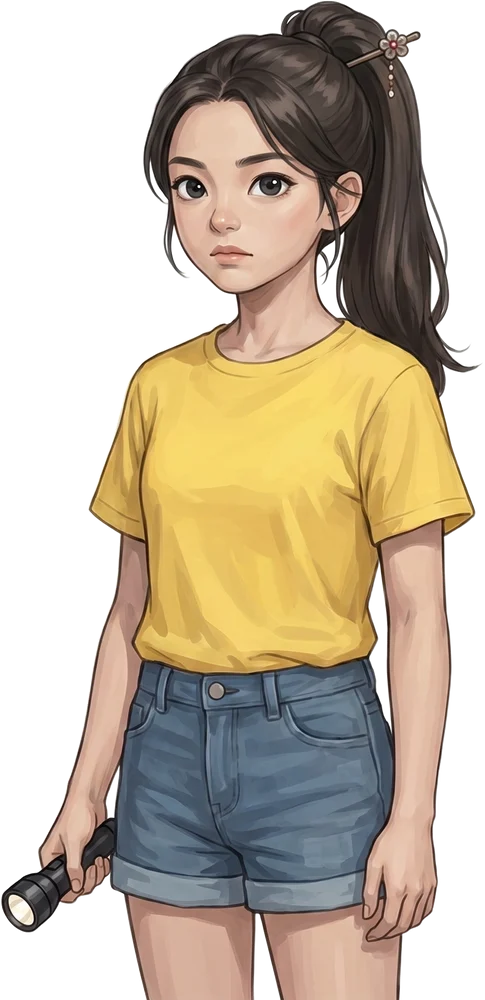
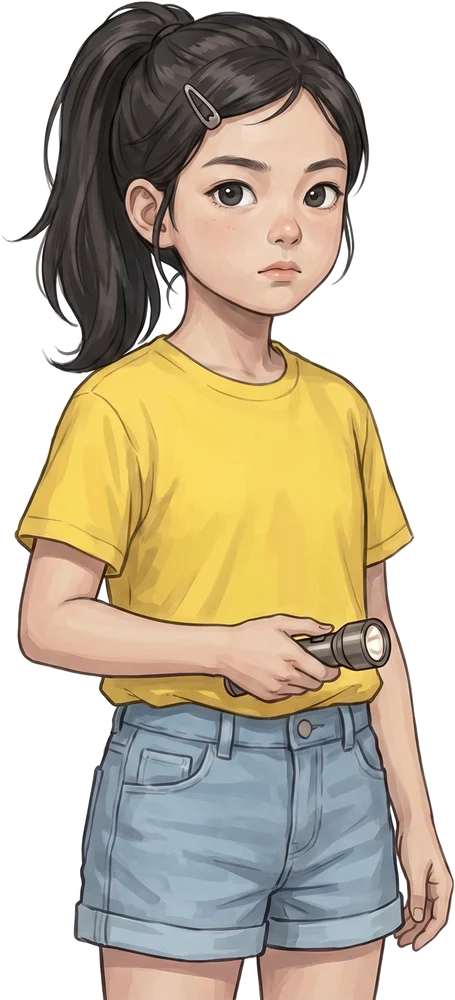
독립 검증에서 확인된 결함을 수정한다
직접 재현해 사실로 확인한 지적만 반영:

- 수첩 여백으로 아래 화면(방 카드·허브 버튼)이 클릭되던 문제 —
  전면 베일(#nbVeil)로 차단하고, 베일 클릭 시 수첩을 닫는다.
  수첩 상단도 토스트 밴드(y 38..85) 아래(14%)로 내려 제목 가림 해소
- 잠금 스팟 토스트의 조사 오류("부탄캔를") — 받침 유무로 을/를 선택
- 심문 메뉴: [인물 심문] 재클릭으로 조사 화면 복귀 토글, 비활성
  추리 버튼에 남던 "준비 완료!" 라벨 교체, 안내 토스트 문구 정정
- 205호 경보기: 그림(벽걸이)과 어긋나던 천장형 서술을 벽 설치
  규격(천장에서 15cm)+천장형(벽에서 30cm) 병기로 정정, 스팟 라벨 수정
- 화로터 폐캔·주방 신청서 단서 문구를 실제 그림과 일치하게 조정
- 원천 자료에 없는 단정 완화: "가장 흔한 원인"·"5대 금지 1호" →
  "5대 금지의 첫 번째 항목", 찬물 위험 단정 → 접근 금지·거리 확보
- 주인공 호칭 통일(탐정) — 공적 신분인 '가스안전 조사관 정확한'과 구분
- 김초롱(12) 초상을 아동 비율로 재생성해 교체 (기존은 10대 중반으로 보임)
- 타이틀 영문 부제 가독성(text-shadow), 동적 카드 img alt 속성 추가
- README 5대 금지 열거를 원천 자료와 일치하게 수정,
  CLAUDE.md 버튼 인벤토리 최신화(8컨테이너 12개)

전체 플레이 자동 검증 재통과, 지적 4건 재현 스크립트로 수정 확인.

Claude-Session: https://claude.ai/code/session_01Fh2RqJgq2fRfiCvRSuSJA6

diff --git a/index.html b/index.html
@@ -135,7 +135,8 @@
     -webkit-background-clip:text; background-clip:text; color:transparent;
     filter:drop-shadow(0 0 18px rgba(140,180,255,.32)) drop-shadow(0 3px 8px #000); }
   .title-inner h2 { font-family:var(--ff-body); font-weight:400; color:#b3a894;
-    letter-spacing:.5em; font-size:.72rem; padding-left:.5em; }
+    letter-spacing:.5em; font-size:.72rem; padding-left:.5em;
+    text-shadow:0 2px 8px rgba(0,0,0,.75); }
   .title-bottom { margin-top:auto; margin-bottom:6%; display:flex; flex-direction:column;
     align-items:center; gap:10px; }
   .ver { position:absolute; right:16px; bottom:12px; z-index:3;
@@ -372,7 +373,11 @@
   #deduceProg .prog-candles .ico { width:12px; height:12px; }
 
   /* ---------- 수첩 ---------- */
-  #notebook { position:absolute; inset:6% 10%; z-index:20; background:var(--leather);
+  /* 수첩 백드롭 — 아래 화면의 노출된 여백(방 카드 가장자리·하단 버튼)이 클릭되는 것을 막고,
+     누르면 수첩이 닫힌다. z-index 19 = 수첩(20) 바로 아래, 화면 내용 위. */
+  #nbVeil { position:absolute; inset:0; z-index:19; display:none; background:rgba(6,4,2,.45); }
+  /* top 14% — 토스트 밴드(y 38..85)가 수첩 제목을 덮지 않도록 그 아래에서 시작한다. */
+  #notebook { position:absolute; inset:14% 10% 6%; z-index:20; background:var(--leather);
     border:1px solid var(--gold-soft); outline:1px solid var(--gold-dim); outline-offset:3px;
     border-radius:4px; padding:18px 20px; display:none;
     flex-direction:column; box-shadow:0 20px 60px rgba(0,0,0,.8),
@@ -512,7 +517,7 @@
       </div>
       <div class="title-bottom">
         <button class="btn gold" style="font-size:1.1rem; padding:14px 46px" onclick="G.show('scr-lobby')">사건 파일 열기</button>
-        <div style="color:#a99f8a; font-size:.82rem">두 건의 가스사고 파일이 조사관을 기다리고 있다</div>
+        <div style="color:#a99f8a; font-size:.82rem">두 건의 가스사고 파일이 탐정을 기다리고 있다</div>
         <div style="color:#7e7462; font-size:.66rem; letter-spacing:.08em">실제 가스안전 수칙과 통계를 바탕으로 제작되었습니다</div>
       </div>
       <div class="ver">ver 4.0</div>
@@ -628,6 +633,7 @@
   </div>
 
   <!-- 수첩 -->
+  <div id="nbVeil" onclick="G.closeNotebook()"></div>
   <div id="notebook">
     <h3><i data-ico="book"></i>조사 수첩</h3>
     <div id="clueList"></div>
@@ -663,7 +669,7 @@ const CDN = {
   boss:      "hf_20260830_073617_b1add7f9-16a8-4cb9-9c87-09633adcf816.png",
   parttime:  "hf_20260830_073619_e1d8eb9e-8393-4f46-ba37-43a55f4158a9.png",
   camper:    "hf_20260830_073620_0ee4bf68-732e-444e-a906-5f1ef47f5cd6.png",
-  daughter:  "hf_20260830_073621_7adf5b2d-896b-4e54-915e-142cd9fe2149.png",
+  daughter:  "hf_20260830_085131_29e90971-096c-43c5-b5a2-8715d475b0a0.png",
   // ----- CASE 2 — 보이지 않는 손님 (배경 6장 + 인물 5장) -----
   cover2:    "hf_20260830_072804_41e436b8-a2fe-4427-9357-e0b1a9cbad4e.png",
   boilerroom:"hf_20260830_072804_e65205a5-0461-4c88-a0b6-9e7bcec8b131.png",
@@ -827,11 +833,11 @@ const CASE1 = {
   /* ---------- 단서 ---------- */
   CLUES: {
     c1:{ name:"파열된 부탄캔", desc:"옆구리가 찢긴 채 나뒹구는 캔. 터지기 직전의 캔은 부풀어 오르며 쉭쉭 소리를 낸다. 파열방지기능 제품이었다면 찢김 대신 가스 배출로 끝났을 것이다." },
-    c2:{ name:"삼발이보다 큰 불판", desc:"레인지의 삼발이를 완전히 덮는 대형 불판. 복사열이 고스란히 아래 부탄캔을 데워 내부 압력을 키운다 — 부탄캔 파열 사고의 가장 흔한 원인이다." },
+    c2:{ name:"삼발이보다 큰 불판", desc:"레인지의 삼발이를 완전히 덮는 대형 불판. 복사열이 고스란히 아래 부탄캔을 데워 내부 압력을 키운다 — 부탄캔 5대 금지의 첫 번째 항목이다." },
     c3:{ name:"포일 감은 석쇠", desc:"알루미늄 포일로 꽁꽁 감싼 석쇠. 빠져나가야 할 열이 갇혀 캔 쪽으로 쏠린다. 포일 감은 석쇠·불판 사용은 부탄캔 5대 금지 수칙 중 하나다." },
     c4:{ name:"나란히 붙인 레인지", desc:"휴대용 레인지 2대가 딱 붙어 있다. 옆 화구의 열이 서로의 캔을 데운다 — 여러 대를 붙여 쓰는 병렬 배치도, 위아래로 쌓는 이단 적재도 금지다." },
     c5:{ name:"숯불 곁의 예비 캔", desc:"이글거리는 화로 바로 옆에 부탄캔들이 줄지어 서 있다. 쪽지엔 '찬 캔은 불 옆에서 데우면 잘 나옴'. 화기 근처 방치도, 직접 가열도 절대 금지다." },
-    c6:{ name:"분리 안 된 폐캔", desc:"다 쓴 캔이 레인지에 꽂힌 채 버려져 있다. 사용 후엔 반드시 연소기에서 분리해 서늘한 곳에 — 폐기는 야외에서 바람을 등지고 잔가스를 뺀 뒤에 한다." },
+    c6:{ name:"함부로 버려진 폐캔", desc:"캡도 씌우지 않은 폐캔들이 화로 곁에 나뒹군다. 다 쓴 캔은 연소기에서 분리해 캡을 씌워 서늘한 곳에 — 폐기는 야외에서 바람을 등지고 잔가스를 뺀 뒤에 한다." },
     c7:{ name:"볕에 달궈진 재고", desc:"매점 창가, 한여름 직사광선에 달궈진 부탄캔 박스. 제조일이 3년을 넘겼다 — 부탄캔 권장사용기간은 제조일로부터 3년이다." },
     c8:{ name:"트럭 짐칸의 온도계", desc:"재고를 실어 나르던 트럭 짐칸의 온도계가 60℃ 를 가리킨다. 여름철 차량 내부는 트렁크까지 60℃ 를 넘본다 — 부탄캔 보관은 40℃ 미만 장소가 원칙이다." }
   },
@@ -925,7 +931,7 @@ const CASE1 = {
       opts:["불량 캔이 저절로 터졌다","알바생이 캔을 잘못 끼웠다","삼발이보다 큰 불판의 복사열","숯불의 불똥이 튀었다"], ans:2,
       fb:["아니다. 캔은 터질 조건이 갖춰져야 터진다 — 원인은 사용 환경에 있었다.",
           "캔은 정상 체결돼 있었다. 그는 오히려 부푼 캔을 빼려던 사람이다.",
-          "정답. 삼발이를 덮는 큰 불판은 복사열을 캔에 쏟아 내부 압력을 키운다 — 5대 금지 1호다.",
+          "정답. 삼발이를 덮는 큰 불판은 복사열을 캔에 쏟아 내부 압력을 키운다 — 5대 금지의 첫 번째 항목이다.",
           "화로는 멀리 있었다. 불똥이 아니라 '열'이 범인이다."] },
     { q:"Q2. 그 캔이 유독 위험했던 이유는?",
       opts:["제조 3년 경과에 여름 트럭 보관","수입산 캔이라서","용량이 작은 캔이라서","알바생이 캔을 흔들어서"], ans:0,
@@ -935,13 +941,13 @@ const CASE1 = {
           "흔들림은 파열 원인이 아니다. 부푼 캔을 발견해 교체하려던 행동은 옳았다."] },
     { q:"Q3. 한여름 씨가 범인이 아닌 결정적 근거는?",
       opts:["평소 성실하다는 평판","사장의 친척이라서","현장에 없었다는 알리바이","부푼 캔을 교체하려다 제지당했다"], ans:3,
-      fb:["심증일 뿐이다. 조사관은 증거로 말한다.",
+      fb:["심증일 뿐이다. 탐정은 증거로 말한다.",
           "혈연은 증거가 아니다. 애초에 친척도 아니다.",
           "그는 현장에 있었다 — 있었기에 이상 징후를 본 것이다.",
           "정답. 전조를 알아채고 새 캔으로 바꾸려던 사람이 사고를 만들 리 없다 — 초롱과 본인의 증언이 겹친다."] },
     { q:"Q4. 인명피해를 막은 결정적 행동은?",
       opts:["물을 뿌려 캔을 식혔다","전조를 알아채고 즉시 대피시켰다","캔을 집어 멀리 던졌다","불판을 맨손으로 치웠다"], ans:1,
-      fb:["달궈진 캔에 찬물은 급격한 온도차로 오히려 위험할 수 있다. 최선은 거리 확보다.",
+      fb:["이미 부풀어 오른 캔 곁에 다가가는 것부터가 위험하다. 최선은 즉시 거리를 확보하는 것이다.",
           "정답. 부풂과 쉭쉭 소리 — 파열 전조를 배운 대로 알아채고 '모두 물러나요!'를 외쳤다.",
           "부푼 캔을 만지는 것 자체가 위험천만이다. 사람이 물러나는 게 먼저다.",
           "맨손으로 만졌다면 화상 피해자가 한 명 늘었을 것이다."] }
@@ -975,10 +981,10 @@ const CASE2 = {
     c1:{ name:"이탈된 배기통", desc:"보일러 배기통 연결부가 빠져 틈이 벌어져 있다. 최근 5년 보일러 사고 26건 중 9건이 배기통 연결부 이탈 — 사망률은 다른 가스사고의 5.8배다." },
     c2:{ name:"찌그러진 연통", desc:"지붕에서 떨어진 눈덩이에 연통 끝이 눌려 있다. 배기통 점검 3종 — 이탈·찌그러짐·이물질 — 폭설 뒤엔 반드시 연통부터 살펴야 한다." },
     c3:{ name:"연통 속 새 둥지", desc:"연통 안에 마른 나뭇가지가 가득하다. 막힌 연통은 배기가스를 실내로 되돌린다 — 점검 3종의 마지막, 내부 이물질이다." },
-    c4:{ name:"침묵한 CO경보기", desc:"천장 구석의 일산화탄소 경보기. 2020년 8월부터 신규 보일러 시설에 설치 의무, 천장형은 벽에서 30cm 떼어 단다. — 그런데 왜 울리지 않았을까." },
+    c4:{ name:"침묵한 CO경보기", desc:"천장 바로 아래 벽에 달린 일산화탄소 경보기. 2020년 8월부터 신규 보일러 시설에 설치 의무 — 벽에 달 때는 천장에서 15cm, 천장에 달 때는 벽에서 30cm 띄운다. 그런데 왜 울리지 않았을까." },
     c5:{ name:"황색 불꽃", desc:"레인지 불꽃이 노랗게 흔들린다. 파란 불꽃이 정상 — 황색·적색 불꽃은 불완전연소, 곧 일산화탄소가 만들어지고 있다는 신호다." },
     c6:{ name:"결로 낀 닫힌 창", desc:"한파에 창을 꼭 닫은 채 밤을 났다 — 유리에 결로가 가득하다. 겨울에도 최소 2시간마다 환기가 원칙이다. 밀폐는 중독의 공범이다." },
-    c7:{ name:"보류된 점검 신청서", desc:"'배기통 노후 — 교체 요망'이라 적힌 관리인의 신청서. 결재란엔 '내년 예산에서'라는 메모뿐이다. 가스보일러는 1년 1회 이상 전문가 점검이 원칙이다." },
+    c7:{ name:"보류된 점검 신청서", desc:"찬장 서랍 깊숙이 치워져 있던 관리인의 신청서 — '배기통 노후, 교체 요망'. 결재란엔 '내년 예산에서'라는 메모뿐이다. 가스보일러는 1년 1회 이상 전문가 점검이 원칙이다." },
     c8:{ name:"낡은 보일러 명판", desc:"명판의 설치 연도는 12년 전. 보일러 권장사용기간은 10년이다 — 수명을 넘긴 기계일수록 해마다 점검이 절실하다." }
   },
   TESTI: {
@@ -996,18 +1002,18 @@ const CASE2 = {
       { label:"연통 끝을 살펴본다", clue:"c2" },
       { label:"연통 안쪽을 들여다본다", clue:"c3" } ] },
     guestroom:{ title:"205호 객실", img:"guestroom", spots:[
-      { label:"천장의 경보기를 올려다본다", clue:"c4" },
+      { label:"벽 위쪽의 경보기를 살펴본다", clue:"c4" },
       { label:"창문을 살펴본다", clue:"c6" },
       { label:"경보기를 떼어 뒤집어 본다", inspect:"alarm", needs:"c4" } ] },
     kitchen3:{ title:"주방", img:"kitchen3", spots:[
       { label:"레인지 불꽃을 살펴본다", clue:"c5" },
-      { label:"게시판의 신청서를 본다", clue:"c7" } ] }
+      { label:"찬장 서랍의 신청서를 본다", clue:"c7" } ] }
   },
 
   /* ---------- 인물 ---------- */
   PEOPLE: {
     host:{ name:"방한욱 · 펜션 사장(58)", img:"host",
-      desc:"펜션 '설래원'의 사장. 손님 앞에선 웃지만, 조사관과는 눈을 맞추지 못한다.",
+      desc:"펜션 '설래원'의 사장. 손님 앞에선 웃지만, 탐정과는 눈을 맞추지 못한다.",
       qs:[
         { q:"어젯밤 상황을 설명해 주시죠",
           a:"새벽에 관리인이 문이란 문을 다 두드리며 깨웠습니다. 손님들이 어지럽다고 해서 창을 열고 눈밭으로 모셨죠. 가스 냄새는 전혀 없었는데, 대체 뭐가 문제랍니까?" },
@@ -1051,7 +1057,7 @@ const CASE2 = {
   /* ---------- 프롤로그 / 진상 ---------- */
   PROLOGUE: [
     { name:"내레이션", text:"폭설이 이틀째 이어진 밤, 언덕 위 펜션 '설래원'. 새벽, 투숙객들이 두통과 어지럼을 호소하며 눈밭으로 뛰쳐나왔다. 가스 냄새는 — 없었다.", img:"cover2" },
-    { name:"방한욱", text:"조사관님, 와 주셔서 감사합니다. 냄새도 없고 경보기도 조용했는데 다들 쓰러질 뻔했어요. 귀신이 곡할 노릇 아닙니까.", img:"cover2", pt:"host" },
+    { name:"방한욱", text:"탐정님, 이 눈길에 와 주셔서 감사합니다. 냄새도 없고 경보기도 조용했는데 다들 쓰러질 뻔했어요. 귀신이 곡할 노릇 아닙니까.", img:"cover2", pt:"host" },
     { name:"한세인", text:"냄새 없이 사람을 쓰러뜨리는 손님이 하나 있지. 무색, 무취 — 아무도 초대한 적 없는 다섯 번째 손님.", img:"guestroom", pt:"detective" },
     { name:"한세인", text:"단서 8개와 증언이 필요하다. 그 손님이 어디로 들어왔는지, 왜 아무도 몰랐는지 밝혀내자.", img:"guestroom", pt:"detective" }
   ],
@@ -1425,6 +1431,7 @@ const G = {
 
   /* ----- 허브 ----- */
   renderHub(){
+    this._talkMenu=false;
     this.$('clueN').textContent=this.clues.size;
     this.$('testiN').textContent=this.testis.size;
     this.$('hearts').innerHTML=this.candlesHTML();
@@ -1434,7 +1441,7 @@ const G = {
       const clueSpots=r.spots.filter(s=>s.clue);   // 조사 전용 지점은 단서 수에서 제외
       const found=clueSpots.filter(s=>this.clues.has(s.clue)).length;
       const card=document.createElement('div'); card.className='room-card';
-      card.innerHTML='<img data-k="'+r.img+'" src="'+IMG[r.img]+'">'+
+      card.innerHTML='<img data-k="'+r.img+'" src="'+IMG[r.img]+'" alt="">'+
         '<div class="room-label"><span>'+r.title+'</span><small>단서 '+found+'/'+clueSpots.length+'</small></div>';
       card.onclick=()=>this.openRoom(key);
       grid.appendChild(card);
@@ -1460,7 +1467,10 @@ const G = {
         b.innerHTML=(locked?ICON.lock:ICON.folder)+'<span>'+s.label+'</span>';
         b.onclick=()=>{
           if(locked){
-            this.toast(ICON.lock+'<span>먼저 '+this.C.CLUES[s.needs].name+'를 찾아야 한다.</span>');
+            // 받침 유무에 따라 을/를 선택 (단서명이 데이터라 조사를 하드코딩할 수 없다)
+            const nm=this.C.CLUES[s.needs].name, cc=nm.charCodeAt(nm.length-1);
+            const jo=(cc>=0xAC00&&cc<=0xD7A3&&(cc-0xAC00)%28>0)?'을':'를';
+            this.toast(ICON.lock+'<span>먼저 '+nm+jo+' 찾아야 한다.</span>');
             return;
           }
           this.openInspect(s.inspect, s.needs);
@@ -1502,19 +1512,25 @@ const G = {
 
   /* ----- 심문 ----- */
   openTalkMenu(){
-    // 허브 그리드를 인물 카드로 바꿔 심문 대상을 고른다 (renderHub가 방 카드로 되돌린다)
+    // 허브 그리드를 인물 카드로 바꿔 심문 대상을 고른다.
+    // 같은 버튼을 다시 누르면 방 카드로 되돌린다 — 인물 화면을 왕복하는 것만이
+    // 탈출 경로면 갇힌 느낌을 주기 때문. (renderHub 진입 시에도 원상복구)
+    if(this._talkMenu){ this._talkMenu=false; this.renderHub(); return; }
+    this._talkMenu=true;
     const grid=this.$('hubGrid'); grid.innerHTML='';
     for(const key in this.C.PEOPLE){
       const p=this.C.PEOPLE[key];
       // person 클래스는 표현 전용 — 인물 카드는 얼굴만 확대되지 않게 별도 크롭 규칙을 쓴다
       const card=document.createElement('div'); card.className='room-card person';
-      card.innerHTML='<img data-k="'+p.img+'" src="'+IMG[p.img]+'">'+
+      card.innerHTML='<img data-k="'+p.img+'" src="'+IMG[p.img]+'" alt="">'+
         '<div class="room-label"><span>'+p.name+'</span><small>심문하기</small></div>';
       card.onclick=()=>this.openTalk(key);
       grid.appendChild(card);
     }
     this.$('deduceBtn').disabled=true;
-    this.toast('심문할 인물을 선택하세요 (수첩·추리는 '+this.C.hubWord+' 화면에서)', 2600);
+    // renderHub 가 남긴 "준비 완료!" 라벨이 비활성 버튼에 그대로 보이지 않게 덮는다
+    this.$('deduceBtn').innerHTML=ICON.scales+'<span>추리 시작 ('+this.C.hubWord+' 화면에서)</span>';
+    this.toast('심문할 인물을 선택하세요 — [인물 심문]을 다시 누르면 조사로 돌아갑니다', 2600);
   },
   openTalk(key){
     const p=this.C.PEOPLE[key];
@@ -1563,9 +1579,10 @@ const G = {
       const t=this.C.TESTI[id];
       list.innerHTML+='<div class="clue-item testi"><b>'+ICON.talk+'<span>'+t.name+'</span></b><br>'+t.desc+'</div>';
     });
+    this.$('nbVeil').style.display='block';
     this.$('notebook').style.display='flex';
   },
-  closeNotebook(){ this.$('notebook').style.display='none'; },
+  closeNotebook(){ this.$('nbVeil').style.display='none'; this.$('notebook').style.display='none'; },
 
   /* ----- 추리 ----- */
   tryDeduce(){
@@ -1618,7 +1635,7 @@ const G = {
   ending(){
     const e=this.C.ending;
     this.setImg('endImg', e.img);
-    const grade=this.wrong===0?'S — 가스안전 마스터':this.wrong<=2?'A — 우수 조사관':'B — 진실 도달';
+    const grade=this.wrong===0?'S — 가스안전 마스터':this.wrong<=2?'A — 우수 탐정':'B — 진실 도달';
     this.$('endTitle').textContent=e.title;
     this.$('endText').textContent=e.text;
     // 교육 요약 카드 — recap 이 있는 사건에서만 펼친다

diff --git a/CLAUDE.md b/CLAUDE.md
@@ -74,10 +74,11 @@ UI를 수정했다면 최소한 아래를 확인한다.
    눈으로 보고 넘기지 말고 좌표를 계산해서 검사한다.
 
 `.screen`은 `display:none`으로 숨기기만 하고 DOM에서 제거하지 않는다. 그래서 **모든 화면의
-버튼이 항상 동시에 존재한다.** `class="btn"`은 6개 컨테이너(`scr-title` / `scr-hub`×4 /
-`scr-room` / `scr-talk` / `scr-end` / `#notebook`)에 9개가 깔려 있고, 뒤로가기 버튼의
-텍스트(사건별 `backLabel` — `"캠핑장으로"` / `"펜션으로"`)도 `scr-room`과 `scr-talk`
-두 곳에 동시에 걸린다. 반드시 `#scr-room .btn`처럼 화면 단위로 범위를 좁혀서 잡는다.
+버튼이 항상 동시에 존재한다.** `class="btn"`은 8개 컨테이너(`scr-title` / `scr-lobby` /
+`scr-hub`×4 / `scr-room` / `scr-talk` / `scr-end`×2 / `scr-inspect` / `#notebook`)에
+12개가 깔려 있고, 뒤로가기 버튼의 텍스트(사건별 `backLabel` — `"캠핑장으로"` / `"펜션으로"`)도
+`scr-room`과 `scr-talk` 두 곳에 동시에 걸린다. `scr-inspect`의 `"돌아가기"`는 backLabel
+치환을 받지 않는 정적 텍스트다. 반드시 `#scr-room .btn`처럼 화면 단위로 범위를 좁혀서 잡는다.
 
 `.spot-btn`(`#spots`)과 `.q-btn`(`#talkQs`)은 각각 한 화면에만 생성되므로 이 문제가 없다.
 

diff --git a/README.md b/README.md
@@ -12,9 +12,9 @@
 
 ### 사건이 가르치는 것
 
-- **사건 1 — 부탄캔** : 5대 금지(삼발이보다 큰 불판 · 포일 감은 석쇠 · 병렬/이단 사용 ·
-  화기 곁 방치와 직접 가열 · 사용 후 미분리), 권장사용기간 **3년**, 보관은 **40℃ 미만**,
-  부풂·쉭쉭 소리는 파열 전조 — 만지지 말고 즉시 대피.
+- **사건 1 — 부탄캔** : 5대 금지(삼발이보다 큰 조리기구 · 포일 감은 석쇠 · 이단/병렬 배치 ·
+  화기 근처 방치 · 직접 가열), 사용 후 연소기에서 분리, 권장사용기간 **3년**,
+  보관은 **40℃ 미만**, 부풂·쉭쉭 소리는 파열 전조 — 만지지 말고 즉시 대피.
 - **사건 2 — 보일러 일산화탄소** : 배기통 점검 **3종**(이탈 · 찌그러짐 · 이물질),
   CO는 **무색무취**(연료가스의 부취제와 다르다), CO경보기 교체주기 **5년**,
   보일러 점검 **연 1회 이상**, 한파에도 **2시간마다 환기**, 황·적색 불꽃은 불완전연소 신호.
